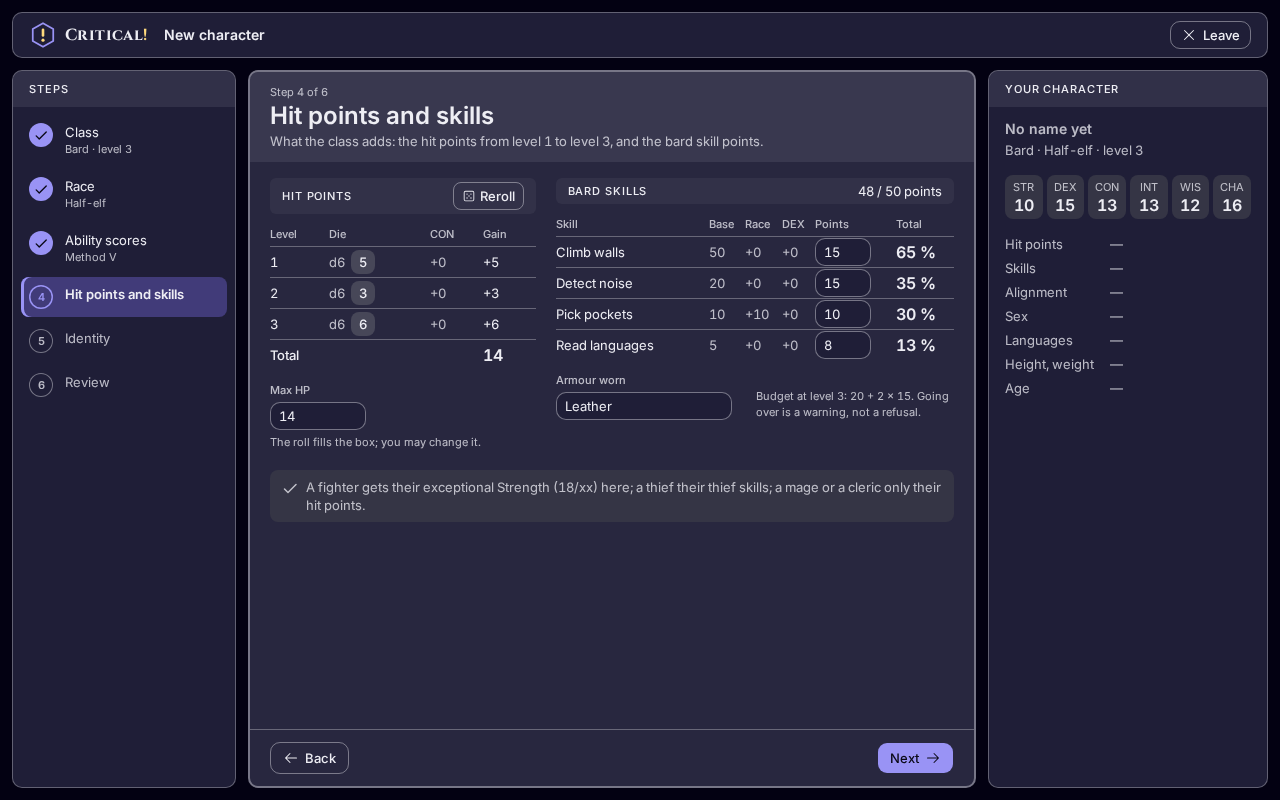
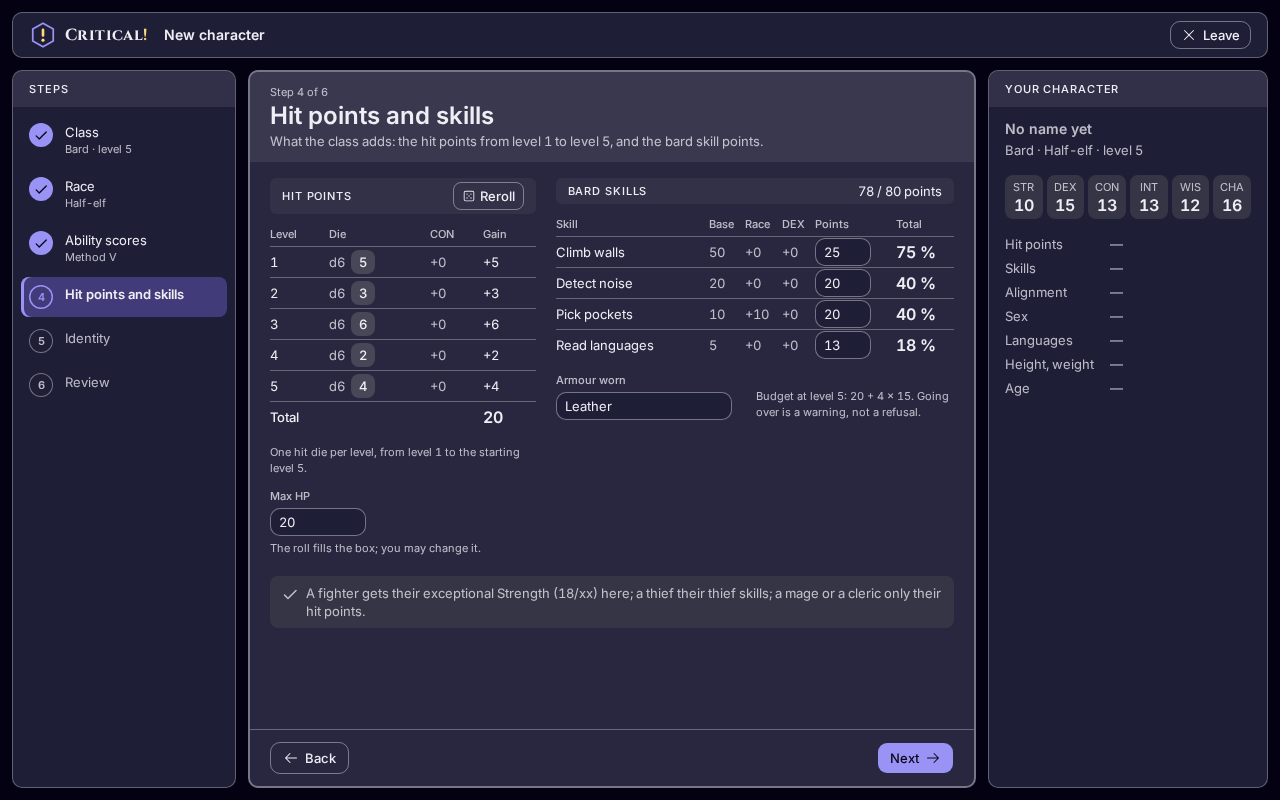
docs(design): onboarding round 2: level or XP at step 1, a level 5 bard, the capped 2560 variant (CRI-43)

diff --git a/web/design/onboarding/screens.tsx b/web/design/onboarding/screens.tsx
@@ -43,6 +43,7 @@ import {
   ROLLS,
   ROSTER,
   STEPS,
+  BARD_LEVEL_XP,
   total,
 } from "./data";
 import {
@@ -185,20 +186,38 @@ export function StepClass() {
           </Choice>
         ))}
       </div>
-      <Group title={tr("Expérience de départ", "Starting experience")}>
-        <div className="flex flex-wrap items-end gap-6">
-          <Field label={tr("XP de départ", "Starting XP")} value="2 500" />
-          <div className="flex flex-col">
-            <span className={labelClass}>{tr("Niveau", "Level")}</span>
-            <span className="text-key">3</span>
-          </div>
-          <p className="max-w-[36rem] text-body text-ink-muted">
+      <Group title={tr("Niveau de départ", "Starting level")}>
+        <div className="flex flex-wrap items-center gap-4">
+          <Seg chosen={0} options={[tr("Niveau", "Level"), tr("XP", "XP")]} />
+          <p className="text-body text-ink-muted">
             {tr(
-              "0 pour un personnage débutant. Le niveau, le TAC0 et les jets de protection en découlent.",
-              "0 for a beginning character. The level, THAC0 and saving throws follow from it.",
+              "Choisissez un niveau : il vaut le minimum d'XP de ce niveau pour la classe. Ou saisissez les XP exacts de votre fiche.",
+              "Pick a level: it counts as the class's lowest XP for that level. Or type the exact XP from your sheet.",
             )}
           </p>
         </div>
+        <div className="flex flex-wrap gap-1">
+          {BARD_LEVEL_XP.map((_, i) => (
+            <span
+              key={i}
+              className={cn(
+                "flex h-8 min-w-9 items-center justify-center rounded-md px-2 text-body tabular-nums",
+                i === 4 ? "chip-chosen font-semibold" : "chip",
+              )}
+            >
+              {i + 1}
+            </span>
+          ))}
+        </div>
+        <p className="text-body">
+          {tr("Niveau 5", "Level 5")}
+          <span className="text-ink-muted">
+            {tr(
+              " · 10 000 XP, le minimum du niveau 5 pour un barde. Le TAC0, les jets de protection et les points de vie en découlent ; 1 pour un personnage débutant.",
+              " · 10,000 XP, a bard's lowest for level 5. THAC0, saving throws and hit points follow from it; 1 for a beginning character.",
+            )}
+          </span>
+        </p>
       </Group>
     </CreationFrame>
   );
@@ -368,8 +387,8 @@ export function StepHp() {
       step={3}
       title={tr("Points de vie et talents", "Hit points and skills")}
       lead={tr(
-        "Ce que la classe demande en plus : les PV du niveau 1 au niveau 3, et les points des talents de barde.",
-        "What the class adds: the hit points from level 1 to level 3, and the bard skill points.",
+        "Ce que la classe demande en plus : les PV du niveau 1 au niveau 5, et les points des talents de barde.",
+        "What the class adds: the hit points from level 1 to level 5, and the bard skill points.",
       )}
     >
       <div className="grid grid-cols-[minmax(0,2fr)_minmax(0,3fr)] gap-5">
@@ -413,6 +432,12 @@ export function StepHp() {
               </tr>
             </tbody>
           </table>
+          <p className="text-label text-ink-muted">
+            {tr(
+              "Un dé de vie par niveau, du niveau 1 au niveau 5 de départ.",
+              "One hit die per level, from level 1 to the starting level 5.",
+            )}
+          </p>
           <Field
             label={tr("PV max", "Max HP")}
             value={String(sum)}
@@ -423,7 +448,7 @@ export function StepHp() {
           title={tr("Talents de barde", "Bard skills")}
           right={
             <span className="text-body tabular-nums">
-              {tr(`${pts} / 50 points`, `${pts} / 50 points`)}
+              {tr(`${pts} / 80 points`, `${pts} / 80 points`)}
             </span>
           }
         >
@@ -460,8 +485,8 @@ export function StepHp() {
             </div>
             <p className="min-w-0 flex-1 text-label text-ink-muted">
               {tr(
-                "Budget au niveau 3 : 20 + 2 × 15. Le dépasser est un avertissement, pas un refus.",
-                "Budget at level 3: 20 + 2 × 15. Going over is a warning, not a refusal.",
+                "Budget au niveau 5 : 20 + 4 × 15. Le dépasser est un avertissement, pas un refus.",
+                "Budget at level 5: 20 + 4 × 15. Going over is a warning, not a refusal.",
               )}
             </p>
           </div>
@@ -680,9 +705,9 @@ export function StepReview() {
           <Dl
             rows={[
               [tr("Nom", "Name"), CHAR.name],
-              [tr("Classe", "Class"), tr("Barde · niveau 3 (2 500 XP)", "Bard · level 3 (2,500 XP)")],
+              [tr("Classe", "Class"), tr("Barde · niveau 5 (10 000 XP)", "Bard · level 5 (10,000 XP)")],
               [tr("Race", "Race"), tr("Demi-elfe", "Half-elf")],
-              ["TAC0", "19"],
+              ["TAC0", "18"],
             ]}
           />
         </ReviewBlock>
@@ -700,11 +725,11 @@ export function StepReview() {
         <ReviewBlock title={tr("Points de vie et talents", "Hit points and skills")}>
           <Dl
             rows={[
-              [tr("PV max", "Max HP"), tr("14 (tirés : 5 + 3 + 6)", "14 (rolled: 5 + 3 + 6)")],
-              [tr("Escalade", "Climb walls"), "65 %"],
-              [tr("Perception des bruits", "Detect noise"), "35 %"],
-              [tr("Vol à la tire", "Pick pockets"), "30 %"],
-              [tr("Lecture des langues", "Read languages"), "13 %"],
+              [tr("PV max", "Max HP"), tr("20 (tirés : 5 + 3 + 6 + 2 + 4)", "20 (rolled: 5 + 3 + 6 + 2 + 4)")],
+              [tr("Escalade", "Climb walls"), "75 %"],
+              [tr("Perception des bruits", "Detect noise"), "40 %"],
+              [tr("Vol à la tire", "Pick pockets"), "40 %"],
+              [tr("Lecture des langues", "Read languages"), "18 %"],
             ]}
           />
         </ReviewBlock>

diff --git a/web/design/onboarding/data.ts b/web/design/onboarding/data.ts
@@ -1,4 +1,4 @@
-// The mock-ups' data: a half-elf bard created at 2 500 XP (level 3), with PHB values (Tables 4,
+// The mock-ups' data: a half-elf bard created at level 5 (10 000 XP, the level's lowest), with PHB values (Tables 4,
 // 8, 10, 11; DMG chapter 1 method V; ADR 0030 step 18's bard budget: 20 + 15 per level after 1).
 // The rolls are fixed so every screenshot shows the same breakdown.
 
@@ -7,10 +7,10 @@ export const CHAR = {
 };
 
 export const STEPS = [
-  { id: "class", fr: "Classe", en: "Class", doneFr: "Barde · niveau 3", doneEn: "Bard · level 3" },
+  { id: "class", fr: "Classe", en: "Class", doneFr: "Barde · niveau 5", doneEn: "Bard · level 5" },
   { id: "race", fr: "Race", en: "Race", doneFr: "Demi-elfe", doneEn: "Half-elf" },
   { id: "scores", fr: "Caractéristiques", en: "Ability scores", doneFr: "Méthode V", doneEn: "Method V" },
-  { id: "hp", fr: "Points de vie et talents", en: "Hit points and skills", doneFr: "14 PV · 48 points", doneEn: "14 HP · 48 points" },
+  { id: "hp", fr: "Points de vie et talents", en: "Hit points and skills", doneFr: "20 PV · 78 points", doneEn: "20 HP · 78 points" },
   { id: "identity", fr: "Identité", en: "Identity", doneFr: "Aëlwyn", doneEn: "Aëlwyn" },
   { id: "review", fr: "Récapitulatif", en: "Review", doneFr: "", doneEn: "" },
 ] as const;
@@ -157,24 +157,32 @@ export const LANGUAGES = [
   { fr: "Draconique", en: "Draconic", race: false, on: false },
 ] as const;
 
-/** The HP roll of a level 3 bard (rogue d6), Constitution 13 (no adjustment). */
+/** The HP roll of a level 5 bard (rogue d6), Constitution 13 (no adjustment). */
 export const HP_ROWS = [
   { level: 1, die: 5 },
   { level: 2, die: 3 },
   { level: 3, die: 6 },
+  { level: 4, die: 2 },
+  { level: 5, die: 4 },
 ] as const;
 
 /** Bard skills (ADR 0030 step 18): base, race (half-elf), Dexterity 15, armour (leather), points. */
 export const BARD_SKILLS = [
-  { fr: "Escalade", en: "Climb walls", base: 50, race: 0, dex: 0, points: 15 },
-  { fr: "Perception des bruits", en: "Detect noise", base: 20, race: 0, dex: 0, points: 15 },
-  { fr: "Vol à la tire", en: "Pick pockets", base: 10, race: 10, dex: 0, points: 10 },
-  { fr: "Lecture des langues", en: "Read languages", base: 5, race: 0, dex: 0, points: 8 },
+  { fr: "Escalade", en: "Climb walls", base: 50, race: 0, dex: 0, points: 25 },
+  { fr: "Perception des bruits", en: "Detect noise", base: 20, race: 0, dex: 0, points: 20 },
+  { fr: "Vol à la tire", en: "Pick pockets", base: 10, race: 10, dex: 0, points: 20 },
+  { fr: "Lecture des langues", en: "Read languages", base: 5, race: 0, dex: 0, points: 13 },
 ] as const;
 
 export const ROSTER = [
   { name: "Kelsen Balstriel", classFr: "Barde", classEn: "Bard", level: 15, raceFr: "Demi-elfe", raceEn: "Half-elf", alFr: "Neutre bon", alEn: "Neutral good", hp: "77 / 85", current: true, missing: false },
-  { name: "Aëlwyn de Valcourt-Lestrange", classFr: "Barde", classEn: "Bard", level: 3, raceFr: "Demi-elfe", raceEn: "Half-elf", alFr: "Neutre bon", alEn: "Neutral good", hp: "14 / 14", current: false, missing: false },
+  { name: "Aëlwyn de Valcourt-Lestrange", classFr: "Barde", classEn: "Bard", level: 5, raceFr: "Demi-elfe", raceEn: "Half-elf", alFr: "Neutre bon", alEn: "Neutral good", hp: "20 / 20", current: false, missing: false },
   { name: "Thorgrim Barbe-de-Fer", classFr: "Guerrier", classEn: "Fighter", level: 4, raceFr: "Nain", raceEn: "Dwarf", alFr: "", alEn: "", hp: "31 / 38", current: false, missing: true },
   { name: "Mirelle des Hautes-Brumes", classFr: "Magicien", classEn: "Mage", level: 7, raceFr: "Elfe", raceEn: "Elf", alFr: "Chaotique bon", alEn: "Chaotic good", hp: "19 / 19", current: false, missing: false },
+] as const;
+
+/** The bard's (rogue) XP table, PHB Table 25: the lowest XP of each level, 1 to 20. */
+export const BARD_LEVEL_XP = [
+  0, 1250, 2500, 5000, 10000, 20000, 40000, 70000, 110000, 160000, 220000, 440000, 660000,
+  880000, 1100000, 1320000, 1540000, 1760000, 1980000, 2200000,
 ] as const;

diff --git a/web/design/onboarding/kit.tsx b/web/design/onboarding/kit.tsx
@@ -17,6 +17,9 @@ import { cn } from "@/lib/utils";
 import { tr } from "./lang";
 import { ABILITIES, CHAR, STEPS } from "./data";
 
+/** `?cap=1`: the width-capped variant of the creation frame (the 2560 question). */
+const CAP = new URLSearchParams(location.search).get("cap") === "1";
+
 export function Wordmark({ size = "key" }: { size?: "key" | "hero" }) {
   return (
     <div className="flex shrink-0 items-center gap-2">
@@ -257,7 +260,7 @@ export function Building({ upTo }: { upTo: number }) {
           <span className="text-body text-ink-muted">
             {has(0) ? tr("Barde", "Bard") : "—"}
             {has(1) ? tr(" · Demi-elfe", " · Half-elf") : ""}
-            {has(0) ? tr(" · niveau 3", " · level 3") : ""}
+            {has(0) ? tr(" · niveau 5", " · level 5") : ""}
           </span>
         </div>
         <div className="grid grid-cols-6 gap-1">
@@ -270,9 +273,9 @@ export function Building({ upTo }: { upTo: number }) {
         </div>
         <dl className="grid grid-cols-[auto_1fr] gap-x-4 gap-y-1.5 text-body">
           <dt className="text-ink-muted">{tr("Points de vie", "Hit points")}</dt>
-          <dd>{has(3) ? "14" : dash}</dd>
+          <dd>{has(3) ? "20" : dash}</dd>
           <dt className="text-ink-muted">{tr("Talents", "Skills")}</dt>
-          <dd>{has(3) ? tr("48 / 50 points", "48 / 50 points") : dash}</dd>
+          <dd>{has(3) ? tr("78 / 80 points", "78 / 80 points") : dash}</dd>
           <dt className="text-ink-muted">{tr("Alignement", "Alignment")}</dt>
           <dd>{has(4) ? tr("Neutre bon", "Neutral good") : dash}</dd>
           <dt className="text-ink-muted">{tr("Sexe", "Sex")}</dt>
@@ -316,7 +319,7 @@ export function CreationFrame({
   footNote?: ReactNode;
 }) {
   return (
-    <div className="flex h-full flex-col gap-3 p-3">
+    <div className={cn("mx-auto flex h-full flex-col gap-3 p-3", CAP && "max-w-[1680px]")}>
       <header className="zone-card flex items-center gap-4 px-4 py-2">
         <Wordmark />
         <span className="text-title">{tr("Nouveau personnage", "New character")}</span>
